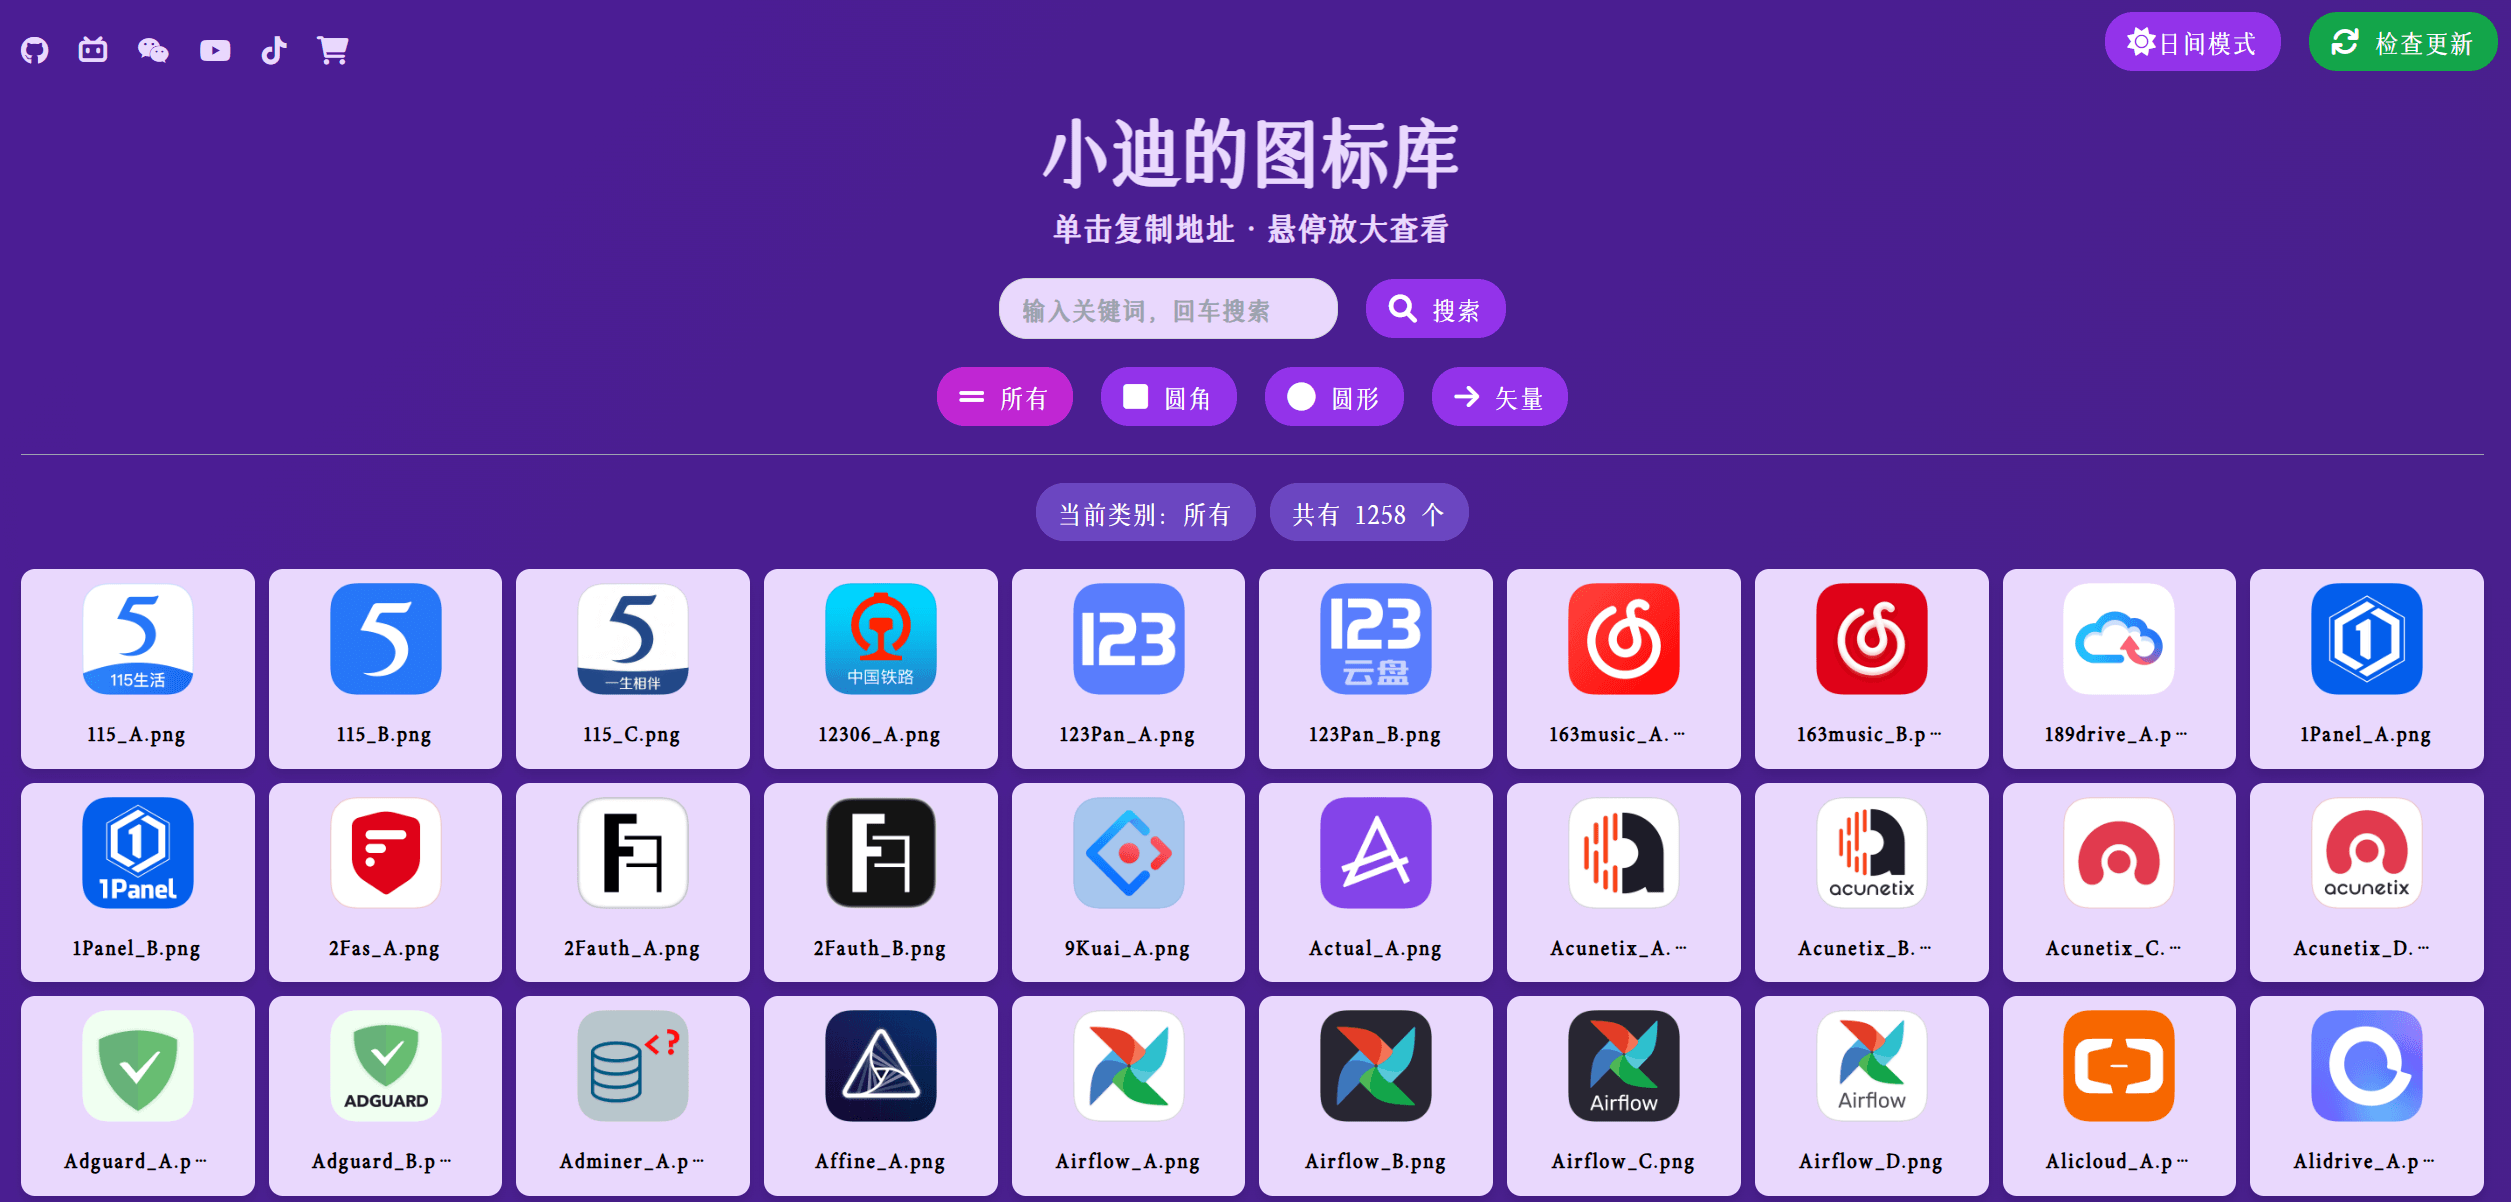
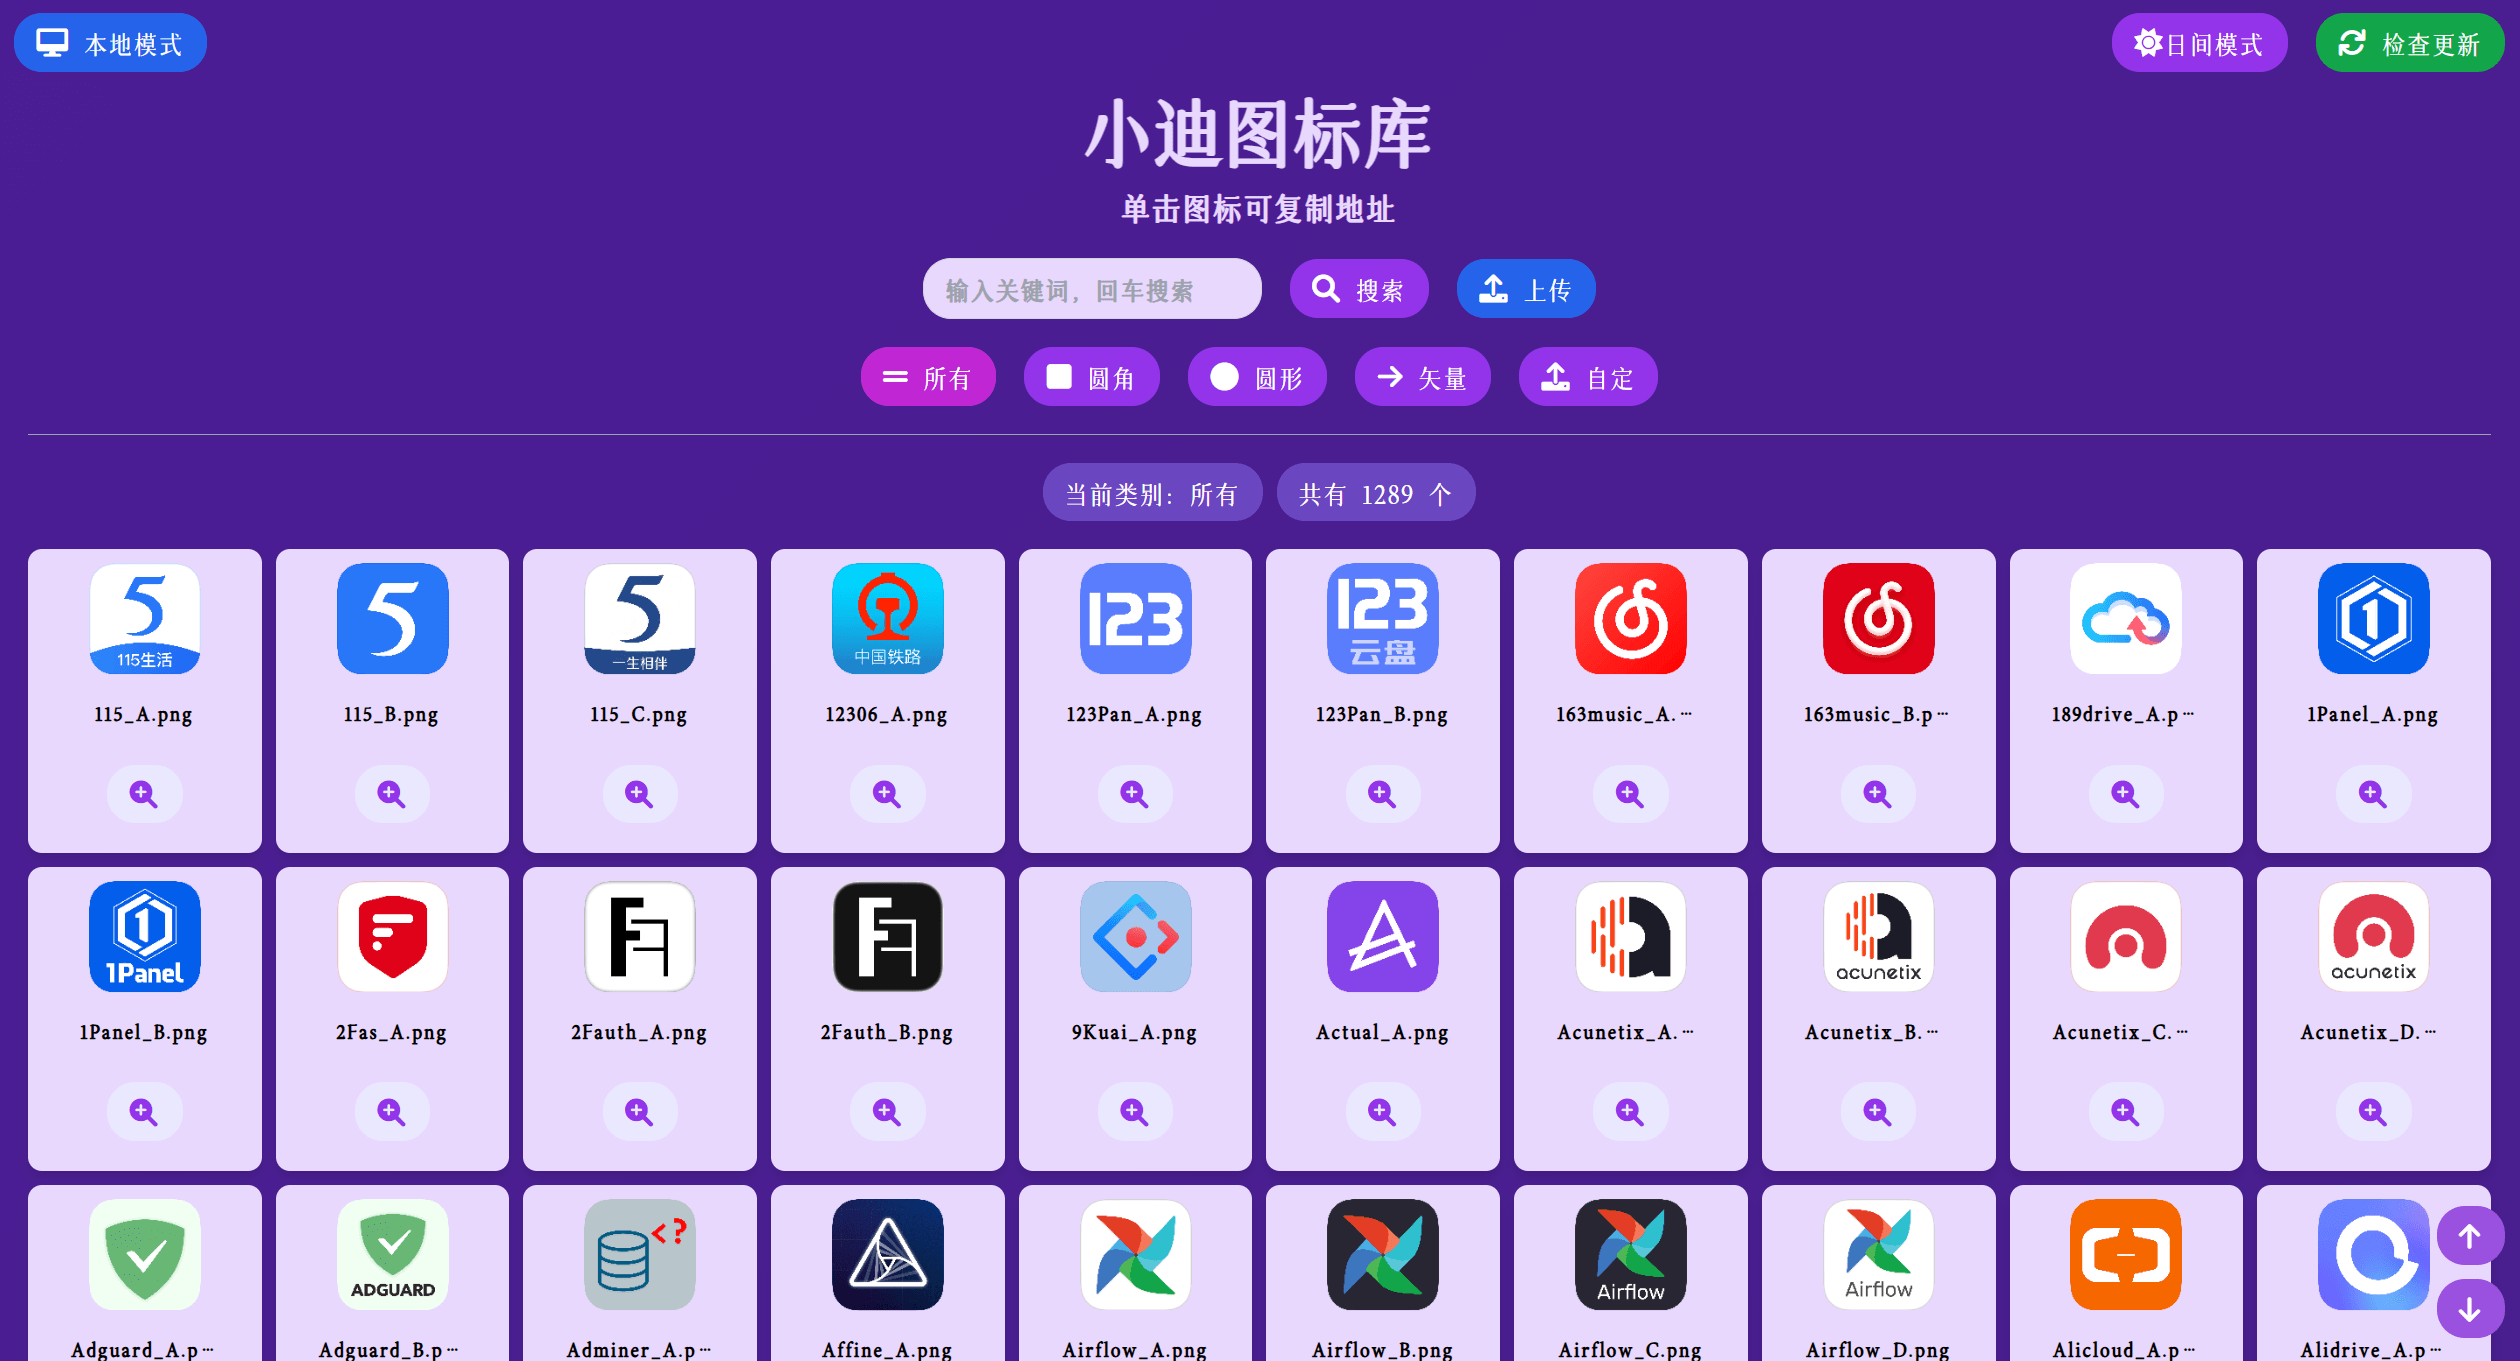
update preview.

diff --git a/README.md b/README.md
@@ -17,19 +17,23 @@
 
 #### 日间模式
 
-![日间模式](preview/day.png)
+![日间模式](preview/day.png){:.center}
 
 #### 夜间模式
 
-![夜间模式](preview/night.png)
+![夜间模式](preview/night.png){:.center}
 
 #### 移动端自适应
 
-![移动端自适应](preview/mobile.png)
+![移动端自适应](preview/mobile.png){:.center}
 
 #### 单击复制地址
 
-![单击复制地址](preview/copy.png)
+![单击复制地址](preview/copy.png){:.center}
+
+#### 自定义图片上传
+
+![自定义图片上传](preview/upload.png){:.center}
 
 ## 用法
 
